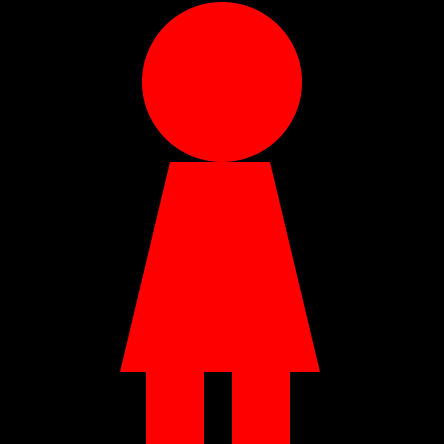
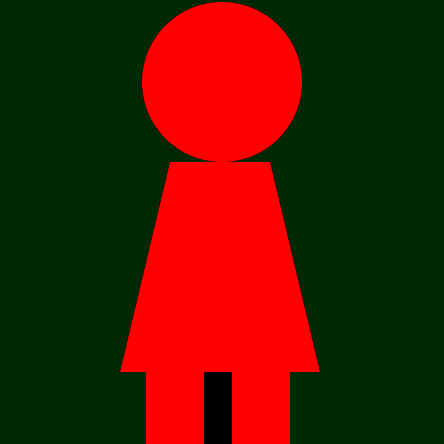
walkable!

diff --git a/field.js b/field.js
@@ -3,6 +3,7 @@ const charasize=30; //キャラクターのサイズ
 const pre_charasize=60; //プリレンダリング用のキャラクターのサイズ
 const fieldwidth=4000;//フィールドの幅の最大値
 const fieldheight=4000;//フィールドの高さの最大値
+const walkspeed=3;//歩くスピード
 
 function initiate_field(){
     /*　フィールド・キャラクターの初期化処理
@@ -22,20 +23,40 @@ function initiate_field(){
     fieldcanvas.width=fieldwidth*fieldnum, fieldcanvas.height=fieldheight;
     var fieldcanvasctx=fieldcanvas.getContext("2d"); //フィールドは横並びに描画　幅はfieldwidth
     for(let i = 0;i <fieldnum;i++){
+        for(let j = 0;j < fieldbackdata[i].length ;j++){
+            fieldcanvasctx.fillStyle=fieldbackdata[i][j][0];
+            fieldcanvasctx.fillRect(fieldbackdata[i][j][1],fieldbackdata[i][j][2],fieldbackdata[i][j][3],fieldbackdata[i][j][4]);
+        }
         for(let j = 0; j < fielddata[i].length;j++){
             const fieldimg=new Image();
             fieldimg.src="./imgs/fieldobj" + i + "_" + j + ".png";
             fieldimg.onload=function(){fieldcanvasctx.drawImage(fieldimg,fielddata[i][j][0] + fieldwidth*i,fielddata[i][j][1])}
         }
     }
+
+    myposx=200,myposy=200,myposworld=0;//ポジションのセッティング
+}
+function myposmodify(){
+    /*　自分の位置がはみ出さないようにする関数
+        param なし
+        return なし
+    */
+    if(myposx<10) myposx=10;
+    if (myposx>fieldwidth-10) myposx=fieldwidth-10;
+    if(myposy<10) myposy=10;
+    if (myposy>fieldheight-10) myposx=fieldheight-10;
 }
 function fieldMain() {
     /*
     @param なし
     @return なし
     */
-    var fieldcanvasctx=fieldcanvas.getContext("2d");
+    if (leftkey) myposx-=walkspeed;
+    if (rightkey) myposx+=walkspeed;
+    if (upkey) myposy-=walkspeed;
+    if (downkey) myposy+=walkspeed;
+    myposmodify();
     walkanimation=(walkanimation+1)%30; //歩く処理
-    ctx2d.drawImage(fieldcanvas,0,0,width,height,0,0,width,height); //背景の描画
+    ctx2d.drawImage(fieldcanvas,myposx,myposy,width,height,0,0,width,height); //背景の描画
     ctx2d.drawImage(characanvas,60*Math.floor(walkanimation/15),0,60,60,(width-charasize)/2,(height-charasize)/2,60,60); //キャラクターの描画
 }

diff --git a/script.js b/script.js
@@ -8,7 +8,7 @@ var menuWindow=0;//メニューウィンドウの表示非表示
 var shopWindow=0;//ショップウィンドウの表示非表示
 
 //フィールド系
-var myposx,myposy, myposworld;//キャラクターの位置　x：横　y:縦　world:ワールド番号
+var myposx=0,myposy=0, myposworld=0;//キャラクターの位置　x：横　y:縦　world:ワールド番号
 const fieldnum=5;//フィールドの数
 
 //描画系
@@ -19,38 +19,36 @@ var leftkey=false, upkey=false, rightkey=false, downkey=false;
 var characanvas,fieldcanvas; //プリレンダリング用のキャンバス
 
 function keypress(mykey,mykeycode){ //キー入力イベント
-    if(mykey=="z"){
-        window.alert("z");
-    }
-    else if(mykey==" "){
-        spacekey=true;
-    }
-    else if(mykeycode==37){
-        leftkey=true;
-    }
-    else if(mykeycode==38){
-        upkey=true;
-    }
-    else if(mykeycode==39){
-        rightkey=true;
-    }
-    else if(mykeycode==40){
-        downkey=true;
-    }
-    else if(mykey=="b"){
-        onBattle=true;
-    }
+    if(mykey=="z") window.alert("z");
+    if(mykey==" ") spacekey=true;
+    if(mykeycode==37) leftkey=true;
+    if(mykeycode==38) upkey=true;
+    if(mykeycode==39) rightkey=true;
+    if(mykeycode==40) downkey=true;
+    if(mykey=="b") onBattle=true;
+}
+function keyup(mykey,mykeycode){ //キー離したときのイベント
+    if(mykey==" ") spacekey=false;
+    if(mykeycode==37) leftkey=false;
+    if(mykeycode==38) upkey=false;
+    if(mykeycode==39) rightkey=false;
+    if(mykeycode==40) downkey=false;
 }
 
 window.addEventListener('load', init); //ロードイベント登録
 window.addEventListener('DOMContentLoaded', function(){ ///キー入力イベント登録
     window.addEventListener("keydown", function(e){
         keypress(e.key,e.keyCode);
+        if([32, 37, 38, 39, 40].indexOf(e.keyCode) > -1) {
+            e.preventDefault();
+        }    
+    });
+    window.addEventListener("keyup", function(e){
+        keyup(e.key,e.keyCode);
     });
 });
 
 //起動時の処理//
-myposx=20,myposy=10,myposworld=0;//ポジションのセッティング
 initiate_field();
 
 function init() {

diff --git a/database.js b/database.js
@@ -1,16 +1,31 @@
+////////////////////
+/* 　フィールド関連  */
+////////////////////
 var walkCol = [ //歩ける色のリスト
-    ["0xffffff"],
+    ["0x220000"],
     ["0xffffff"],
     ["0xffffff"],
     ["0xffffff"],
     ["0xffffff"],
     ["0xffffff"]
 ]
+var fieldbackdata=[ //フィールドの長方形データをすべて格納（主に歩ける部分）
+    [["0x220000",0,0,4000,4000]],
+    [["0x220000",0,0,4000,4000]],
+    [["0x220000",0,0,4000,4000]],
+    [["0x220000",0,0,4000,4000]],
+    [["0x220000",0,0,4000,4000]],
+    [["0x220000",0,0,4000,4000]]
+]
 var fielddata=[ //フィールドの画像データが全て格納されている
-    [[30,10],[100,300],[320,50]], //フィールド0
+    [[500,400],[100,300],[320,50],[1000,400],[1000,900],[320,750]], //フィールド0
     [], //フィールド1
     [], //フィールド2
     [], //フィールド3
     [], //フィールド4
     [] //フィールド5
 ]
+
+////////////////////
+/* 　敵データ　     */
+////////////////////
